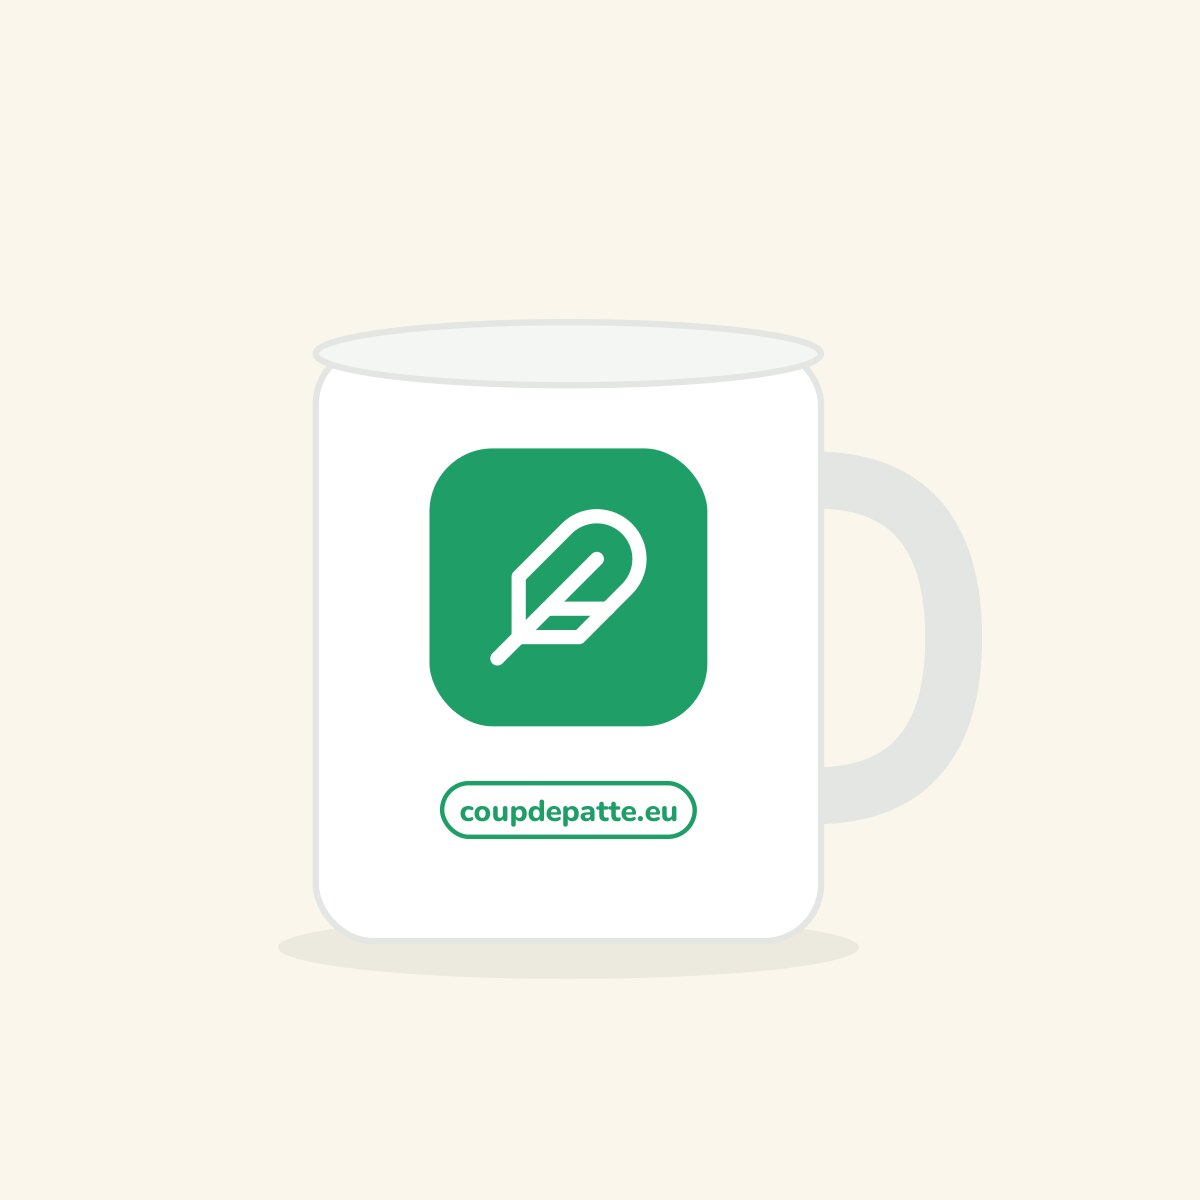
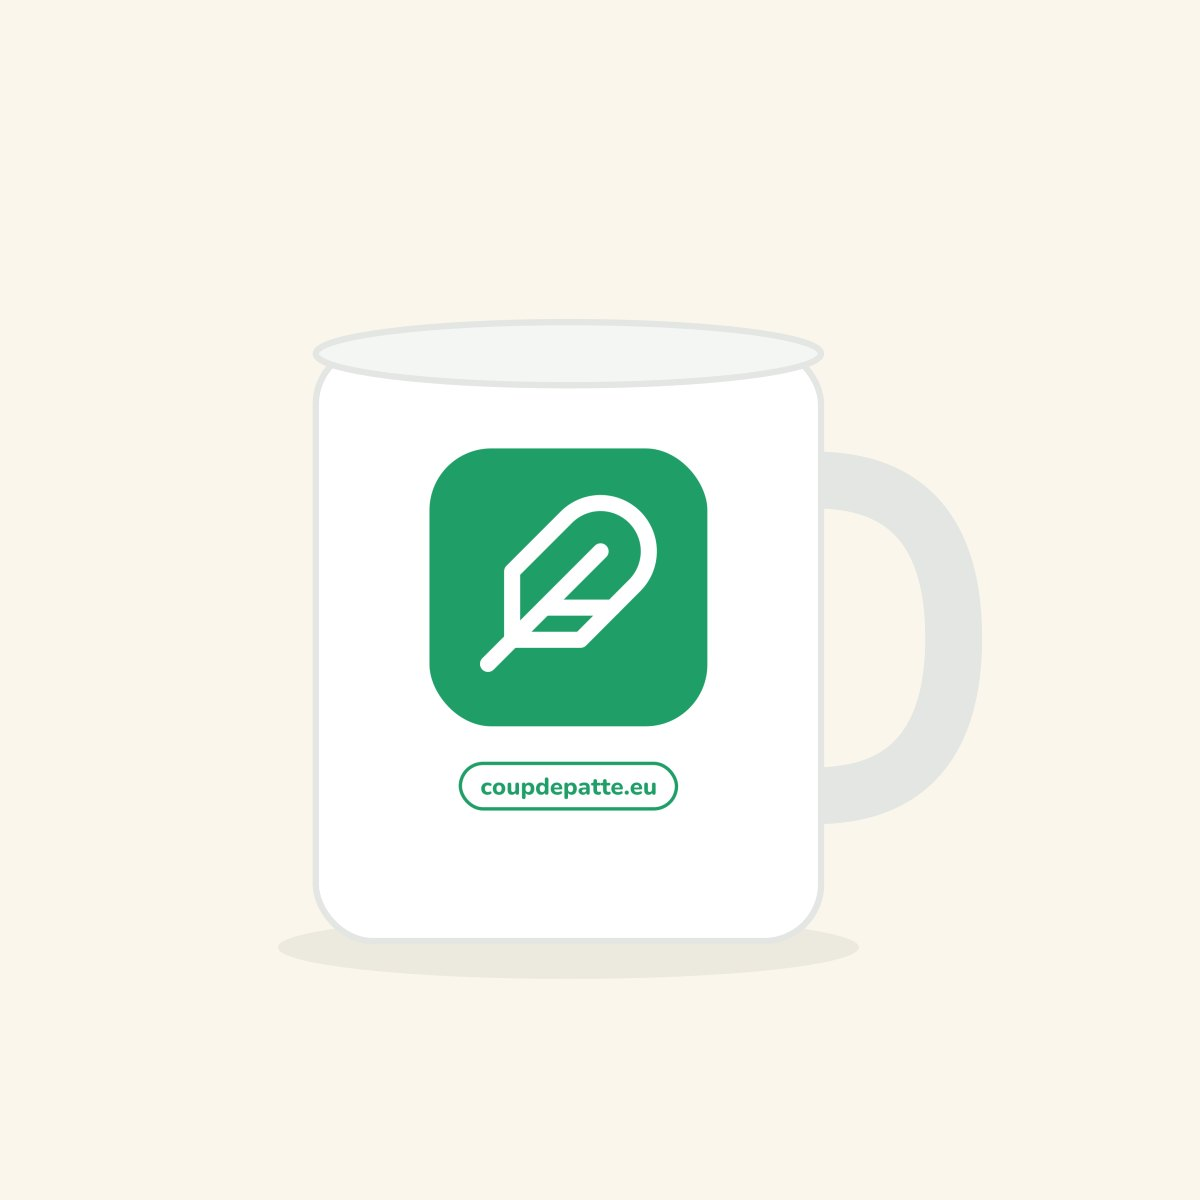
Boutique : déclinaisons oiseaux du t-shirt (6 modèles), du sweat (5) et du mug (6), fichiers d'impression, aperçus et vues du motif
Claude-Session: https://claude.ai/code/session_01SrhVcf1YKpy74WjD8FZC1m

Changed region(s): [[0.4008, 0.4008, 0.555, 0.555], [0.37, 0.6167, 0.5858, 0.7092]]

diff --git a/boutique/index.html b/boutique/index.html
@@ -4,7 +4,7 @@
 <meta charset="utf-8">
 <meta name="viewport" content="width=device-width, initial-scale=1, viewport-fit=cover">
 <title>La boutique | Coup de Patte</title>
-<meta name="description" content="T-shirts, sweats, tote bags et mugs aux couleurs de Coup de Patte, imprimés à la demande. Chaque achat soutient l'association et fait connaître le bon geste pour les oiseaux.">
+<meta name="description" content="T-shirts, sweats, tote bags et mugs aux couleurs de Coup de Patte, avec la plume ou les oiseaux de nos jardins, imprimés à la demande. Chaque achat soutient l'association et fait connaître le bon geste pour les oiseaux.">
 <link rel="canonical" href="https://boutique.coupdepatte.eu/">
 <meta name="theme-color" content="#1F9E67">
 <meta property="og:type" content="website">
@@ -127,10 +127,23 @@ footer p{margin:4px 0}
   var MOTIF = 'https://coupdepatte.eu/boutique/motifs/';
   var CLE = 'sb_publishable_OBbJMFqX9UIOkj6FF2T34Q_KTrqUbvL';
   var DEFAUT = [
-    {id:'tshirt-plume', nom:'T-shirt La plume', description:'La plume blanche, petite et haut sur la poitrine, sur coton vert. Coupe unisexe.', image:IMG+'tshirt.jpg', tailles:['S','M','L','XL','XXL'], prix_cts:2900,
-      details:[['Matière','100 % coton, coupe unisexe (Gildan Softstyle)'],['Couleur','Vert'],['Impression','Plume et adresse du site, en haut de la poitrine']]},
-    {id:'sweat-oiseaux', nom:'Sweat Oiseaux de nos jardins', description:'Rouge-gorge, mésange, hirondelle et martinet, centrés sur le torse. Molleton écru.', image:IMG+'sweat.jpg', tailles:['S','M','L','XL','XXL'], prix_cts:4900,
-      details:[['Matière','Molleton 80 % coton, 20 % polyester, col rond (AWDis)'],['Couleur','Écru'],['Impression','Les quatre oiseaux et l\'adresse du site, sur le torse']]},
+    {id:'tshirt-plume', nom:'T-shirt vert', description:'Coton vert, coupe unisexe. Six modèles : la plume, un oiseau ou les quatre ensemble, petit et haut sur la poitrine.', image:IMG+'tshirt-plume.jpg', tailles:['S','M','L','XL','XXL'], prix_cts:2900,
+      details:[['Matière','100 % coton, coupe unisexe (Gildan Softstyle)'],['Couleur','Vert'],['Impression','Le motif choisi et l\'adresse du site, en haut de la poitrine']],
+      variantes:[
+      {id:'plume', nom:'La plume', image:IMG+'tshirt-plume.jpg'},
+      {id:'rouge-gorge', nom:'Rouge-gorge', image:IMG+'tshirt-rouge-gorge.jpg'},
+      {id:'mesange', nom:'Mésange bleue', image:IMG+'tshirt-mesange.jpg'},
+      {id:'hirondelle', nom:'Hirondelle', image:IMG+'tshirt-hirondelle.jpg'},
+      {id:'martinet', nom:'Martinet noir', image:IMG+'tshirt-martinet.jpg'},
+      {id:'quatre-oiseaux', nom:'Les quatre oiseaux', image:IMG+'tshirt-quatre-oiseaux.jpg'}]},
+    {id:'sweat-oiseaux', nom:'Sweat écru', description:'Molleton écru. Cinq modèles : les quatre oiseaux ensemble ou un seul, centré sur le torse.', image:IMG+'sweat-quatre-oiseaux.jpg', tailles:['S','M','L','XL','XXL'], prix_cts:4900,
+      details:[['Matière','Molleton 80 % coton, 20 % polyester, col rond (AWDis)'],['Couleur','Écru'],['Impression','Le ou les oiseaux et l\'adresse du site, sur le torse']],
+      variantes:[
+      {id:'quatre-oiseaux', nom:'Les quatre oiseaux', image:IMG+'sweat-quatre-oiseaux.jpg'},
+      {id:'rouge-gorge', nom:'Rouge-gorge', image:IMG+'sweat-rouge-gorge.jpg'},
+      {id:'mesange', nom:'Mésange bleue', image:IMG+'sweat-mesange.jpg'},
+      {id:'hirondelle', nom:'Hirondelle', image:IMG+'sweat-hirondelle.jpg'},
+      {id:'martinet', nom:'Martinet noir', image:IMG+'sweat-martinet.jpg'}]},
     {id:'tote-ilovebirds', nom:'Tote bag I love birds', description:'Coton biologique naturel, pour les courses, les marchés et les sorties nature. Cinq modèles : un par oiseau, ou les quatre ensemble.', image:IMG+'tote-hirondelle.jpg', tailles:[], prix_cts:3900,
       details:[['Matière','Coton biologique tissé, couleur naturelle (Stanley/Stella)'],['Dimensions','42 x 37 cm, anses de 65 cm'],['Impression','Le slogan, l\'oiseau choisi et l\'adresse du site']],
       variantes:[
@@ -139,8 +152,15 @@ footer p{margin:4px 0}
       {id:'mesange', nom:'Mésange bleue', image:IMG+'tote-mesange.jpg'},
       {id:'martinet', nom:'Martinet noir', image:IMG+'tote-martinet.jpg'},
       {id:'quatre-oiseaux', nom:'Les quatre oiseaux', image:IMG+'tote-quatre-oiseaux.jpg'}]},
-    {id:'mug-plume', nom:'Mug La plume', description:'Céramique blanche, la plume du logo dans sa pastille verte.', image:IMG+'mug.jpg', tailles:[], prix_cts:1900,
-      details:[['Matière','Céramique blanche, 33 cl'],['Impression','La pastille plume et l\'adresse du site, sur les deux faces']]}
+    {id:'mug-plume', nom:'Mug blanc', description:'Céramique blanche, le motif sur les deux faces. Six modèles : la plume, un oiseau ou les quatre ensemble.', image:IMG+'mug-plume.jpg', tailles:[], prix_cts:1900,
+      details:[['Matière','Céramique blanche, 33 cl'],['Impression','Le motif choisi et l\'adresse du site, sur les deux faces']],
+      variantes:[
+      {id:'plume', nom:'La plume', image:IMG+'mug-plume.jpg'},
+      {id:'rouge-gorge', nom:'Rouge-gorge', image:IMG+'mug-rouge-gorge.jpg'},
+      {id:'mesange', nom:'Mésange bleue', image:IMG+'mug-mesange.jpg'},
+      {id:'hirondelle', nom:'Hirondelle', image:IMG+'mug-hirondelle.jpg'},
+      {id:'martinet', nom:'Martinet noir', image:IMG+'mug-martinet.jpg'},
+      {id:'quatre-oiseaux', nom:'Les quatre oiseaux', image:IMG+'mug-quatre-oiseaux.jpg'}]}
   ];
   var produits = DEFAUT, envoi = false, choix = {}, vue = {}, scrollListe = 0;
   function esc(s){ return String(s==null?'':s).replace(/[&<>"']/g,function(c){ return {'&':'&amp;','<':'&lt;','>':'&gt;','"':'&quot;',"'":'&#39;'}[c]; }); }

diff --git a/index.html b/index.html
@@ -1407,10 +1407,10 @@
   var BOUTIQUE_ENTREES = false;
   var BOUTIQUE_URL = 'https://boutique.coupdepatte.eu/';
   var BOUTIQUE_DEFAUT = [
-    {id:'tshirt-plume', nom:'T-shirt La plume', motif:'La plume', description:'La plume blanche, petite et haut sur la poitrine, sur coton vert. Coupe unisexe.', image:'/boutique/apercus/tshirt.jpg', tailles:['S','M','L','XL','XXL'], prix_cts:2900, ordre:1},
-    {id:'sweat-oiseaux', nom:'Sweat Oiseaux de nos jardins', motif:'Oiseaux de nos jardins', description:'Rouge-gorge, mésange, hirondelle et martinet, centrés sur le torse. Molleton écru.', image:'/boutique/apercus/sweat.jpg', tailles:['S','M','L','XL','XXL'], prix_cts:4900, ordre:2},
+    {id:'tshirt-plume', nom:'T-shirt vert', motif:'La plume ou les oiseaux', description:'Coton vert, coupe unisexe. Six modèles : la plume, un oiseau ou les quatre ensemble.', image:'/boutique/apercus/tshirt-plume.jpg', tailles:['S','M','L','XL','XXL'], prix_cts:2900, ordre:1},
+    {id:'sweat-oiseaux', nom:'Sweat écru', motif:'Oiseaux de nos jardins', description:'Molleton écru. Cinq modèles : les quatre oiseaux ou un seul, sur le torse.', image:'/boutique/apercus/sweat-quatre-oiseaux.jpg', tailles:['S','M','L','XL','XXL'], prix_cts:4900, ordre:2},
     {id:'tote-ilovebirds', nom:'Tote bag I love birds', motif:'I love birds', description:'Coton biologique naturel. Cinq modèles : un par oiseau, ou les quatre ensemble.', image:'/boutique/apercus/tote-quatre-oiseaux.jpg', tailles:[], prix_cts:3900, ordre:3},
-    {id:'mug-plume', nom:'Mug La plume', motif:'La plume', description:'Céramique blanche, la plume du logo dans sa pastille verte.', image:'/boutique/apercus/mug.jpg', tailles:[], prix_cts:1900, ordre:4}
+    {id:'mug-plume', nom:'Mug blanc', motif:'La plume ou les oiseaux', description:'Céramique blanche, motif sur les deux faces. Six modèles : la plume, un oiseau ou les quatre ensemble.', image:'/boutique/apercus/mug-plume.jpg', tailles:[], prix_cts:1900, ordre:4}
   ];
   var _btq = {produits:null, charge:false, envoi:null};
   try{ if(BOUTIQUE_ENTREES) document.documentElement.classList.add('btq-on'); }catch(_){}

diff --git a/sw.js b/sw.js
@@ -5,7 +5,7 @@
 // Nationale, tuiles OpenStreetMap) part directement au reseau, sans jamais passer par
 // le cache. Sinon les donnees du carnet resteraient figees apres un ajout, une
 // modification ou une suppression.
-const CACHE = 'coup-de-patte-v45';
+const CACHE = 'coup-de-patte-v46';
 const ASSETS = [
   './',
   './index.html',
